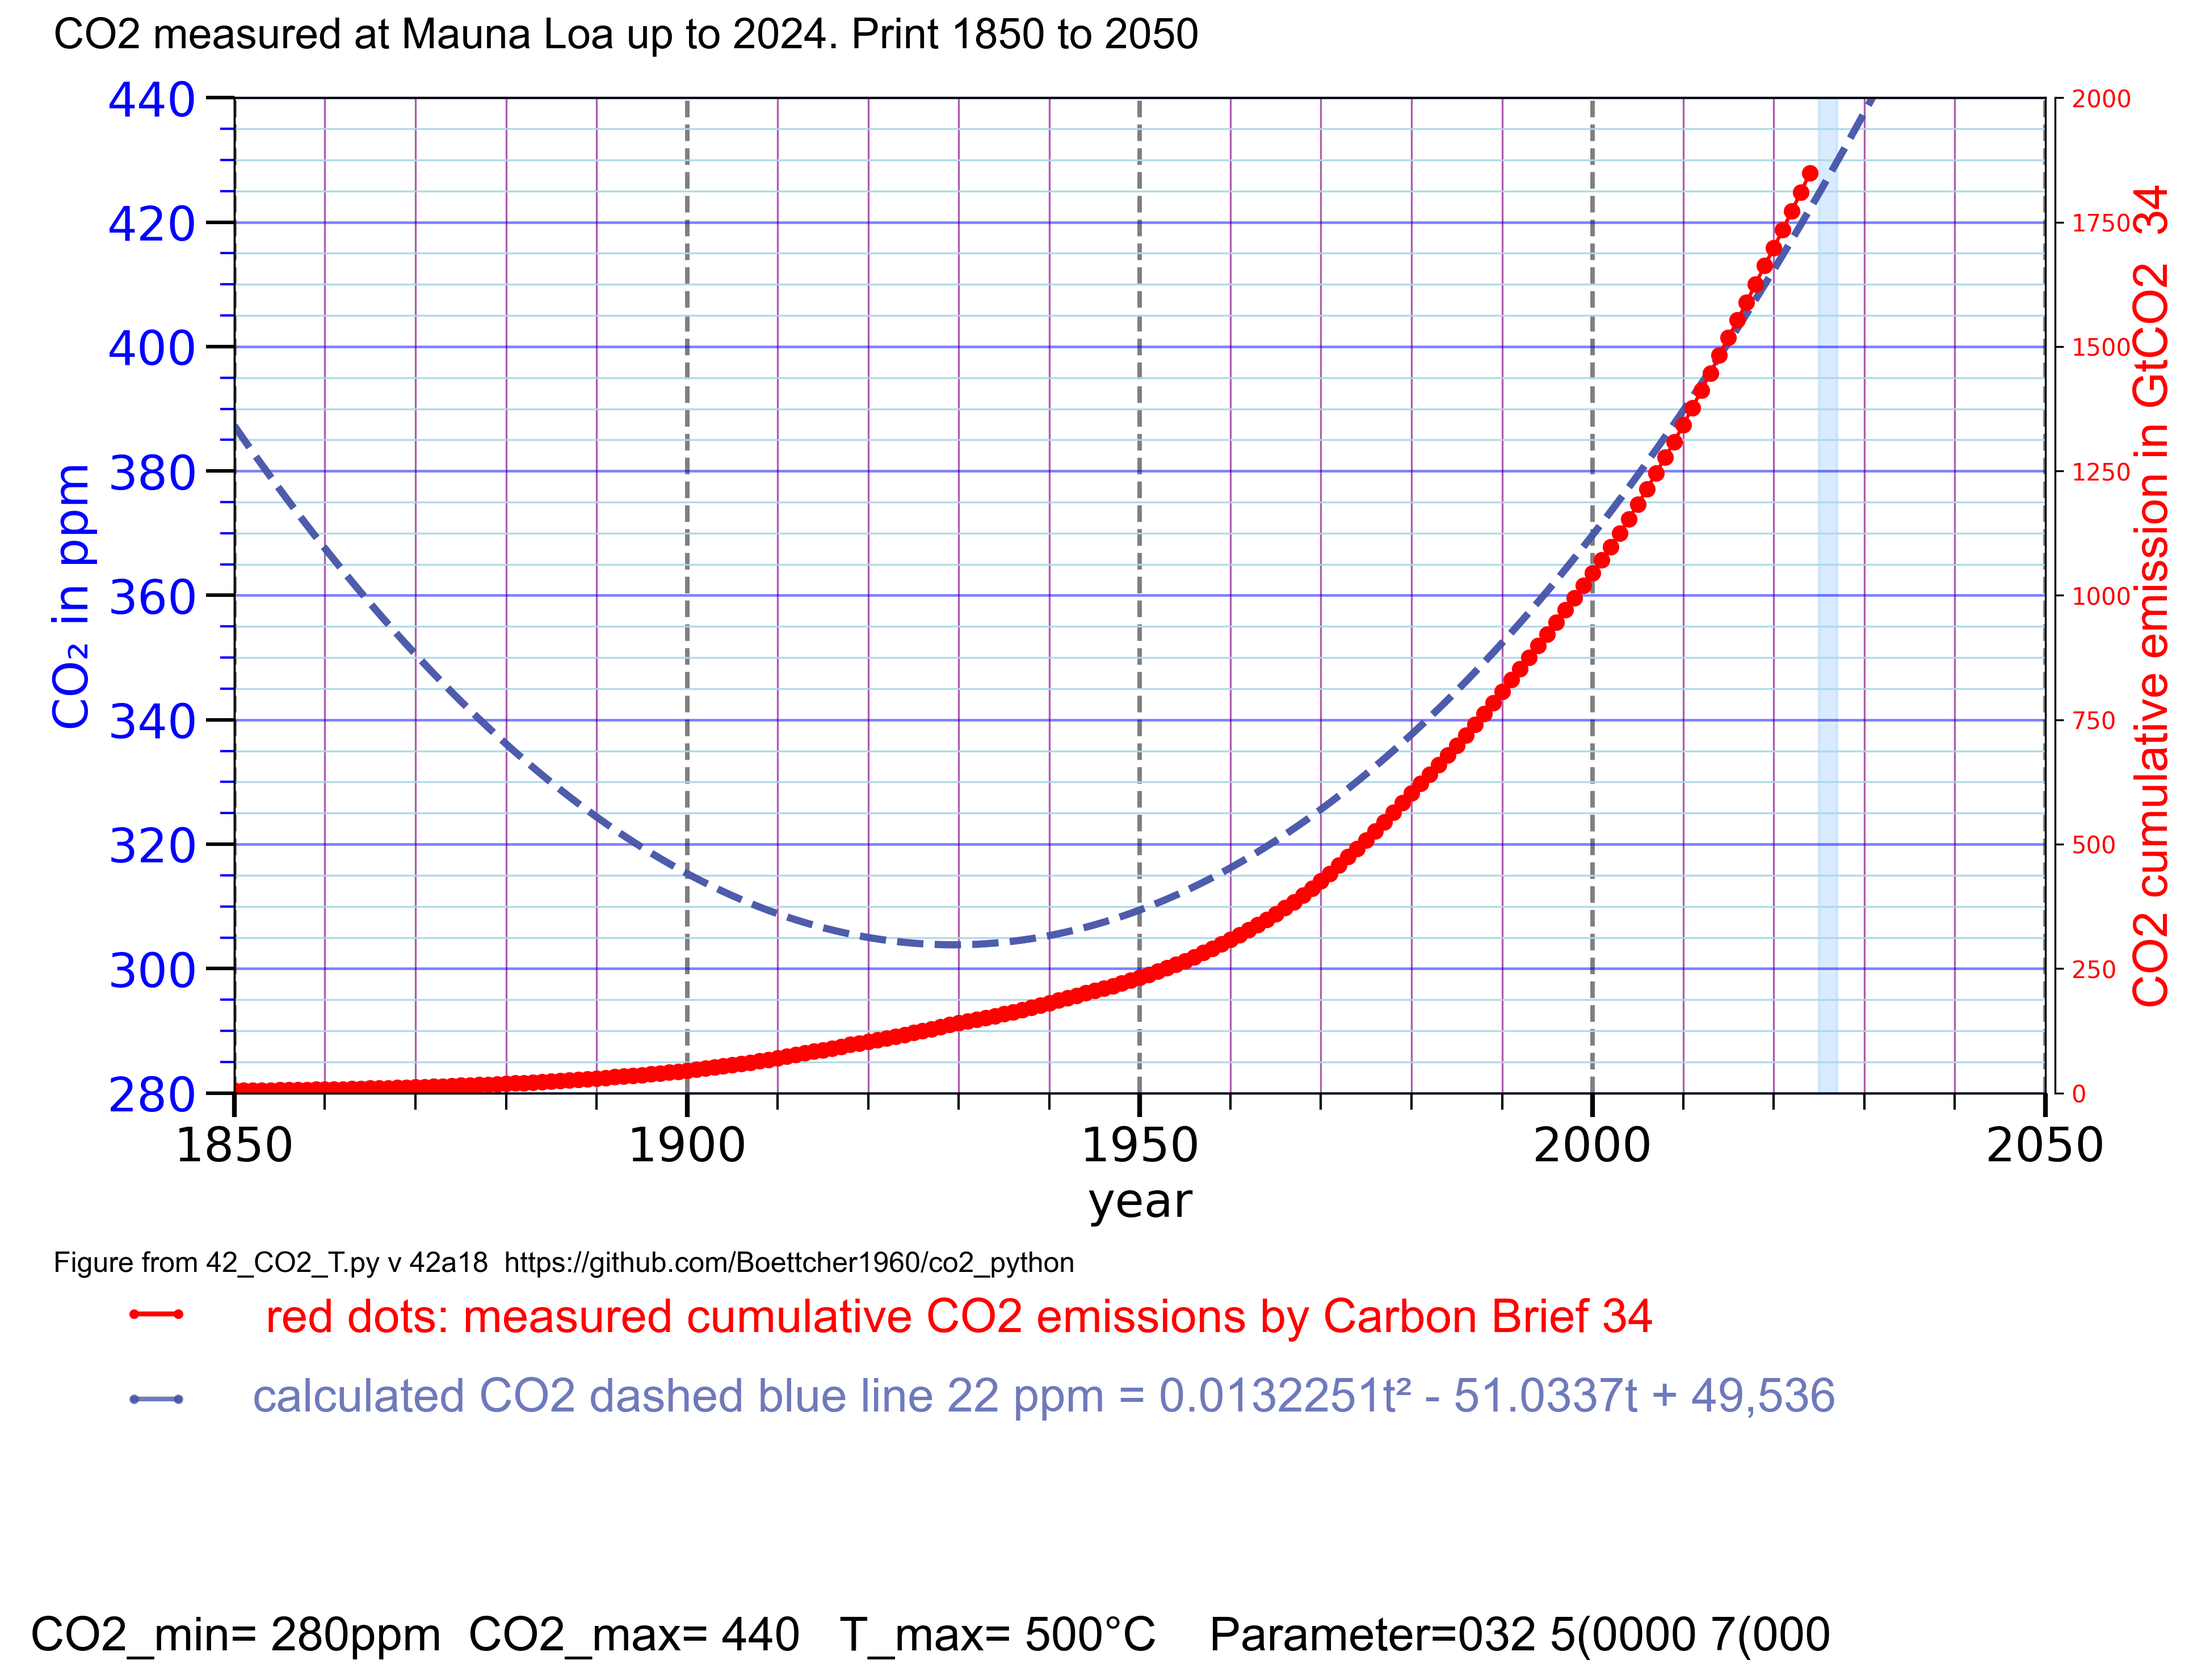
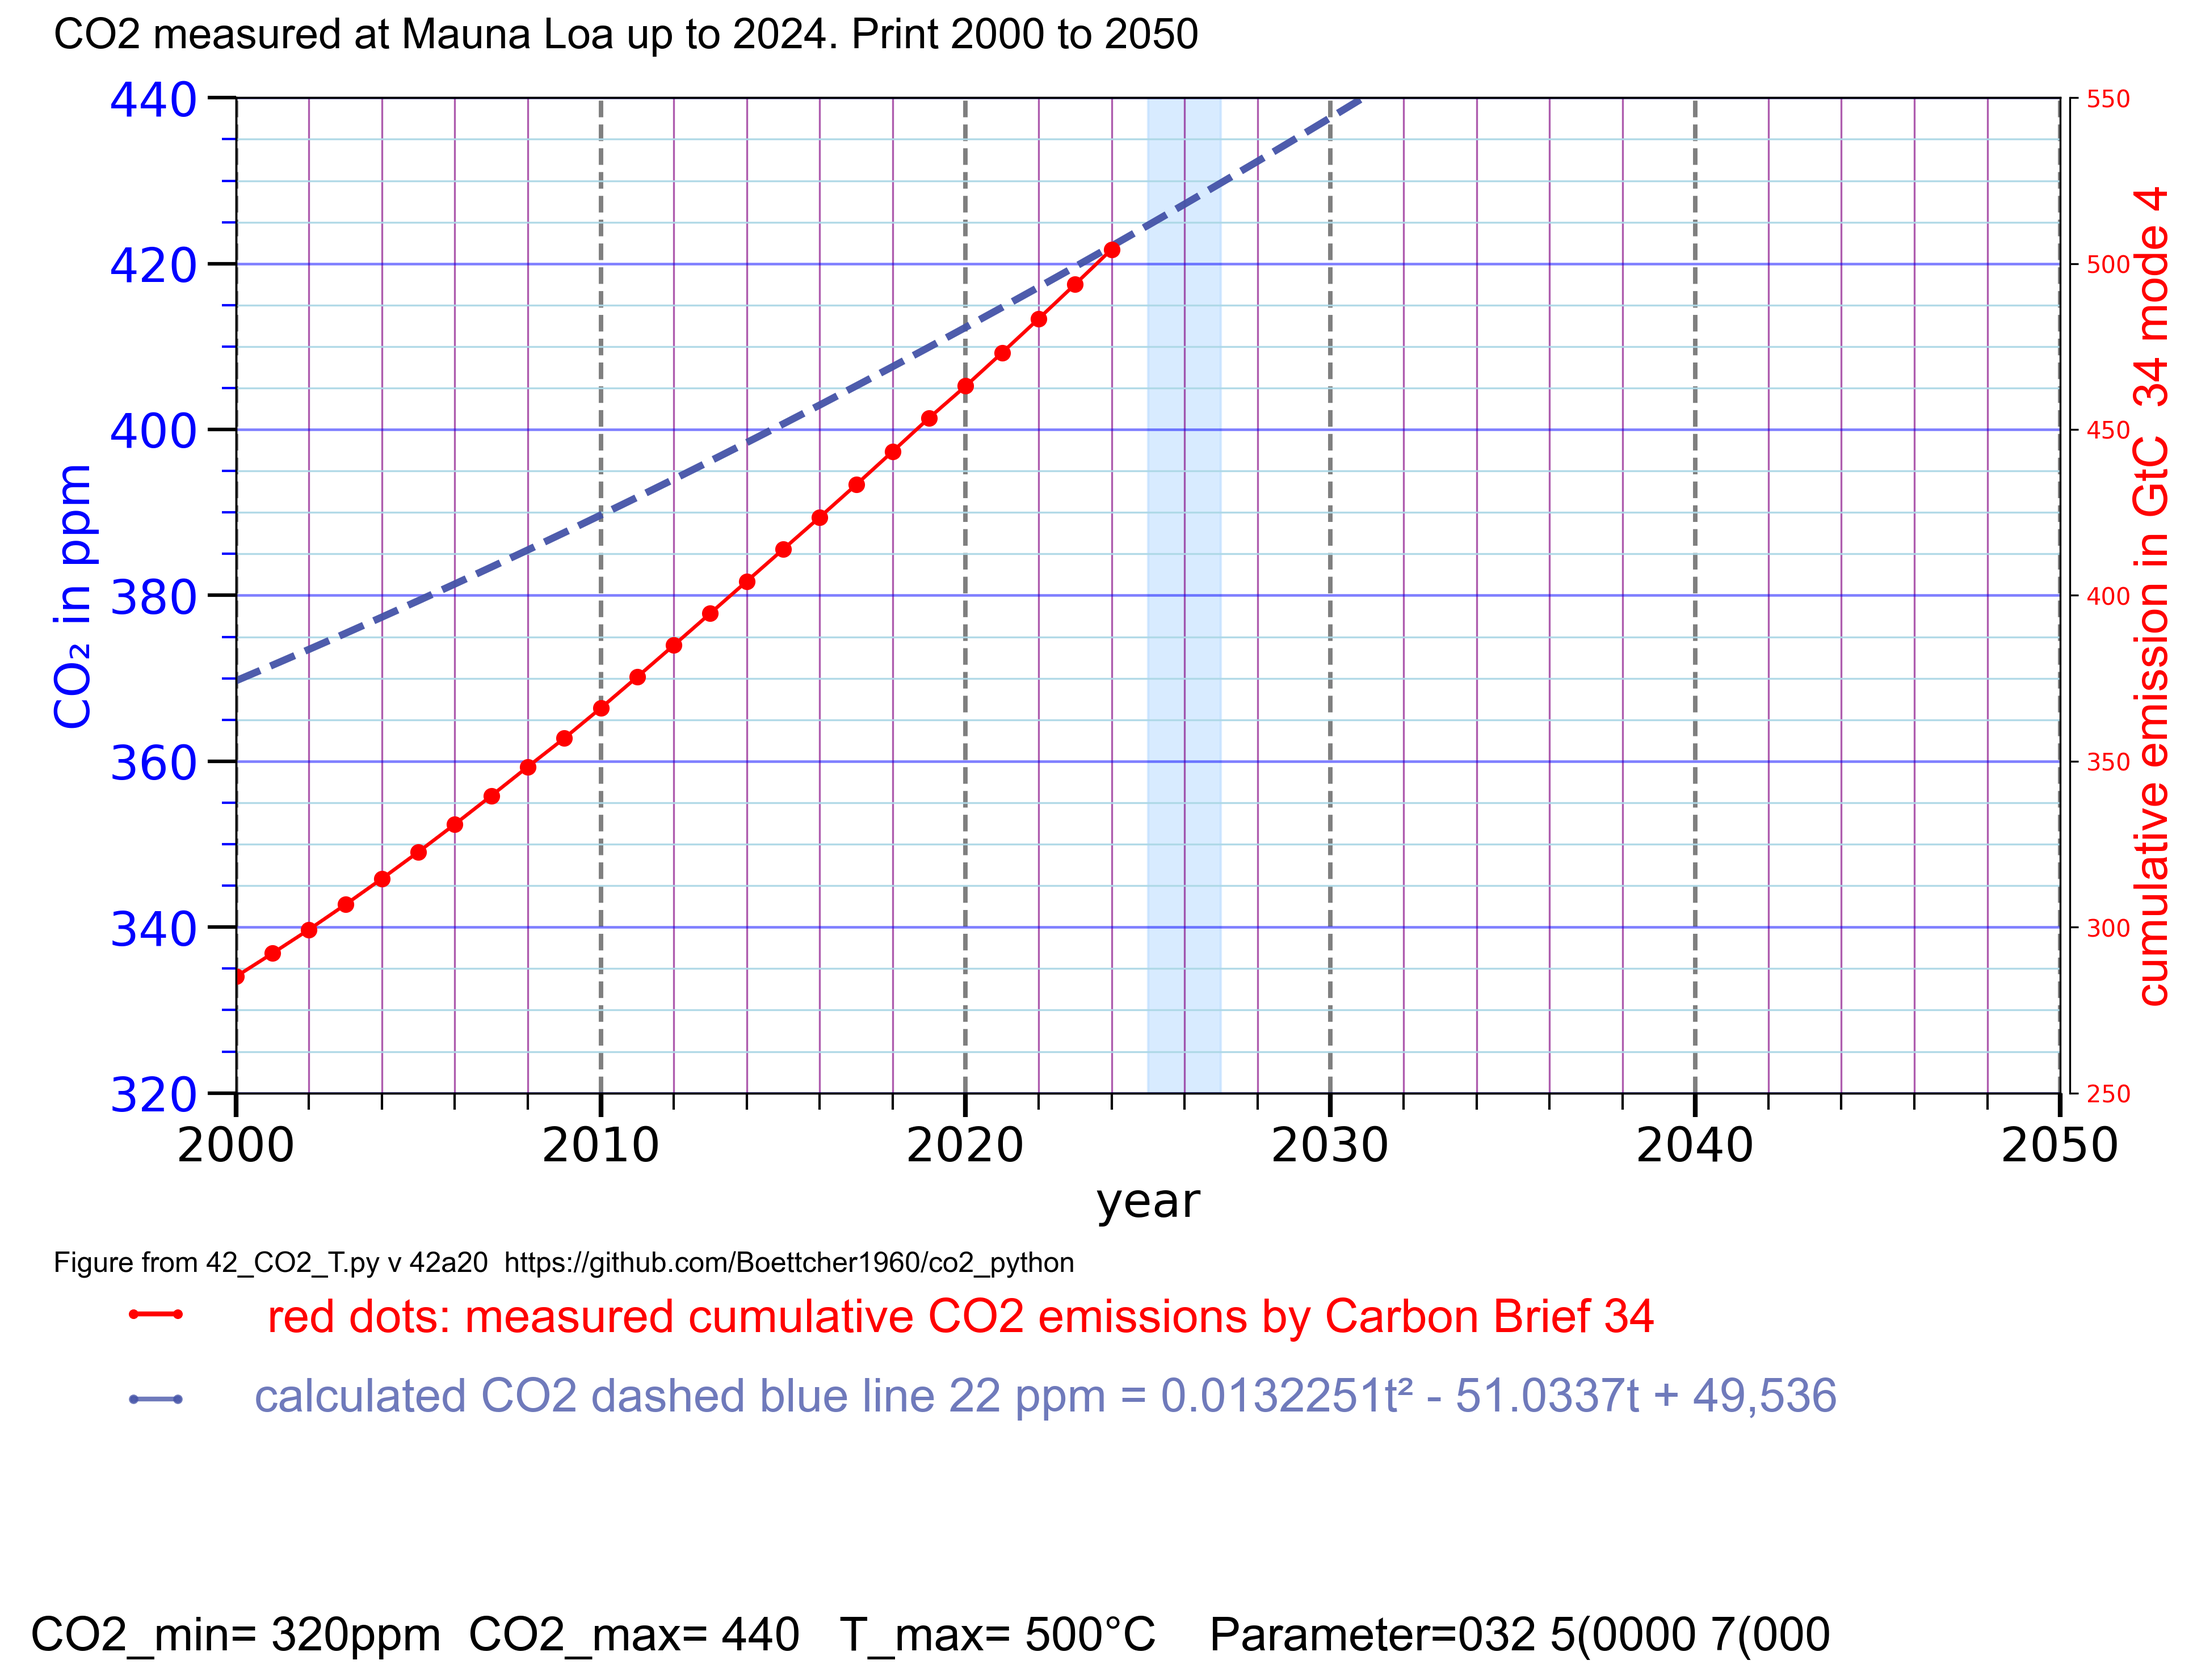
v = "42a20"

diff --git a/42_CO2_T.py b/42_CO2_T.py
@@ -1,5 +1,5 @@
 # 42_CO2_T.py 
-v = "42a19"
+v = "42a20"
 # Thomas Boettcher
 # part 1 configure 
 # part 2.2 plot CO2 Mauna Loa
@@ -63,14 +63,14 @@ else:
 C280=280 # CO2 concentration 1750 275 ppm
 
 # 1.3.1 scale the left Y axis
-y_min = 280 # 300 # min value 280
+y_min = 320 # 300 # min value 280
 y_max = 440 # 1300 # min value 440 70
 
 # 1.3.2 scale the right Y axis
 y_Tmin = 0 # min value °C
 y_Tmax = 500 # 4 # max value C
 
-x_anf = 1850 # 1960 2000 
+x_anf = 2000 # 1960 2000 
 x_end = 2050 # 2200 2026 
 
 # 1.4.5 scale the text rows below the plot field
@@ -695,6 +695,8 @@ elif plot34_CO2_emission > 0:
       ax34.plot(co2_sum_world["Year"], co2_sum_world["CCumulat"], marker="o",  color=c34, label="plot34_CO2_emission")
       ax34.tick_params(axis="y", labelcolor=c34)
       ax34.set_ylim(0, 800) # best scaling 500 GtC
+      ax34.set_ylim(250, 550) # best scaling 500 GtC
+      
    else:
       ax34.plot(df34b["Year"], df34b["Cumulat"], marker="o",  color=c34, label="plot34_CO2_emission")
       ax34.tick_params(axis="y", labelcolor=c34)
